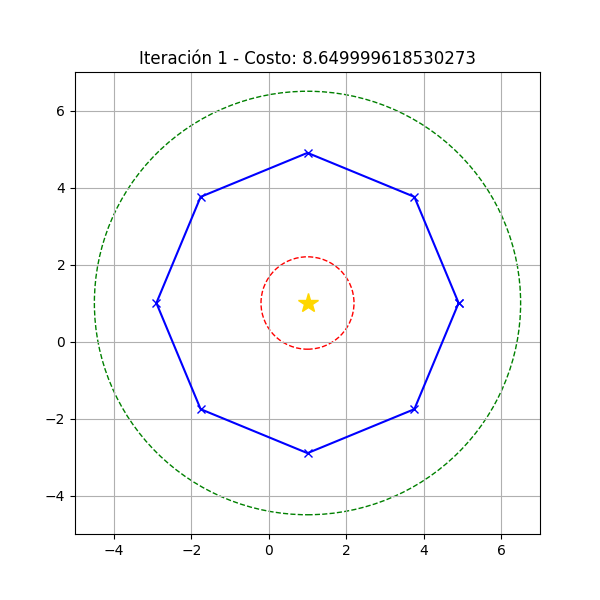
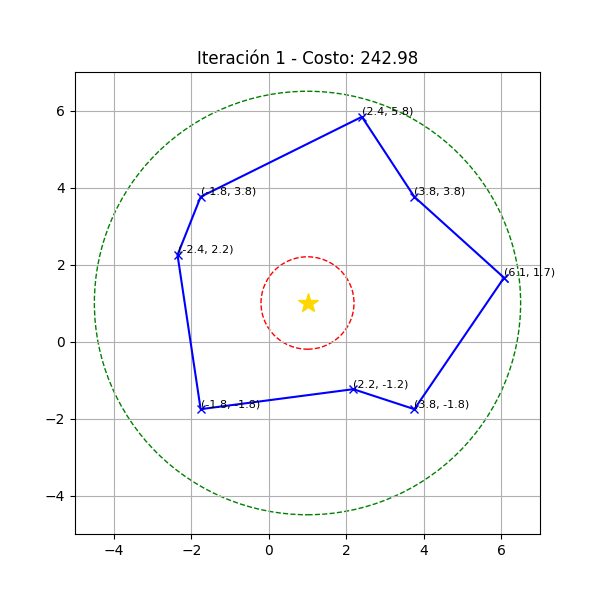
Se arregla problemas con trayectoria y optimizacion

diff --git a/Verano_2026/controllers/Controlador_principal/Optimizador.py b/Verano_2026/controllers/Controlador_principal/Optimizador.py
@@ -44,15 +44,16 @@ def fun_costo(p):
     contador+=1
     print(f"ITERACION {contador}")
     # 1. Reconstruir a 4D a partir de 3D (x, y, z)
-    wp3d = np.reshape(p, (-1, 3)).tolist()
+    wp3d = np.reshape(p, (-1, 4)).tolist()
     wp = []
     for w in wp3d:
         x = w[0]
         y = w[1]
         z = w[2]
-        dx = 1.0 - x
-        dy = 1.0 - y
-        yaw = mt.atan2(dy, dx)
+        yaw=w[3]
+        # dx = 1.0 - x
+        # dy = 1.0 - y
+        # yaw = mt.atan2(dy, dx)
         wp.append([x, y, z, yaw])
     
     # 2. Escribir 'mision.json'
@@ -78,18 +79,27 @@ def fun_costo(p):
 
     # 5. Retornar el costo
     puntaje=detector.imagenes_capturadas()
-    peso=2.0
+    peso=3.2
     ptj=peso*puntaje
     
     # Calcular distancia teórica de la ruta (sin ruido de simulación)
     distancia_teorica = 0.0
+    segmentos=[]
     for i in range(len(wp)-1):
         distancia_teorica += mt.sqrt((wp[i+1][0]-wp[i][0])**2 + (wp[i+1][1]-wp[i][1])**2)
+        segmentos.append(mt.sqrt((wp[i+1][0]-wp[i][0])**2 + (wp[i+1][1]-wp[i][1])**2))
     # Sumar el tramo final al inicio para cerrar el circuito
     distancia_teorica += mt.sqrt((wp[0][0]-wp[-1][0])**2 + (wp[0][1]-wp[-1][1])**2)
-    
+    segmentos.append(mt.sqrt((wp[0][0]-wp[-1][0])**2 + (wp[0][1]-wp[-1][1])**2))
+    medida=distancia_teorica/len(segmentos)
+    penalizacion_distancia=0.0
+    for seg in segmentos:
+        d1=abs(seg-medida)
+        d2=d1*30
+        penalizacion_distancia+=d2
+
     # El costo ahora se basa en la distancia teórica (suave) en lugar del tiempo simulado (ruidoso)
-    costo = distancia_teorica - ptj
+    costo = distancia_teorica - ptj+penalizacion_distancia
     co=0.0
     for w in wp:
         w1=w[0]
@@ -103,7 +113,7 @@ def fun_costo(p):
     costos.append(costo)
 
     #tiempo de vuelo, puntaje 
-    print(f"Tiempo de vuelo: {tiempo_total} , Distancia teorica: {distancia_teorica} , puntaje: {puntaje}, costo: {costo} , |costo penalizacion: {co} , |puntos obtenidos: {ptj}|")
+    print(f"Tiempo de vuelo: {tiempo_total} , Distancia teorica: {distancia_teorica} , puntaje: {puntaje}, costo: {costo} , |costo penalizacion: {penalizacion_distancia} , |puntos obtenidos: {ptj}|")
   
 
     x_vals = [w[0] for w in wp]
@@ -113,6 +123,9 @@ def fun_costo(p):
 
     plt.figure(figsize=(6,6))
     plt.plot(x_vals, y_vals, marker='x', color='blue', label='Ruta')
+    for x, y in zip(x_vals[:-1], y_vals[:-1]):
+        plt.text(x, y, f"({x:.1f}, {y:.1f})", fontsize=8, ha='left', va='bottom', color='black')
+
     plt.plot(1.0, 1.0, marker='*', color='gold', markersize=15, label='Objeto') 
     ax = plt.gca()
     ax.add_patch(plt.Circle((1.0, 1.0), 1.2, color='red', fill=False, linestyle='--'))
@@ -121,7 +134,7 @@ def fun_costo(p):
     plt.xlim(-5, 7)
     plt.ylim(-5, 7)
     plt.grid(True)
-    plt.title(f"Iteración {contador} - Costo: {round(costo, 2)}")
+    plt.title(f"Iteración {contador} - Costo: {costo:.2f}")
     plt.savefig(os.path.join(ruta_historia, f"iteracion_{contador}.png"))
     plt.close()
 
@@ -138,33 +151,45 @@ if __name__ == "__main__":
     num_puntos=tray_obj.puntos_necesarios()
     puntos=tray_obj.puntos_trayectoria_circular(num_puntos)
     
-    puntos3d=[]
+    puntos4d=[]
+    nums_rand=[]
+    n=1.7
+    
    
     for i in range(len(puntos)):
         x=puntos[i][0]
         y=puntos[i][1]
         z=puntos[i][2]
-        puntos3d.append([x, y, z])
+        
+        nums_rand=np.random.uniform(0.0,n,size=2)
+       
+        if i%2==0:
+            x+=nums_rand[0]
+            y+=nums_rand[1]
+        dx=1.0-x
+        dy=1.0-y
+        yaw=mt.atan2(dy,dx)
+        puntos4d.append([x, y, z,yaw])
 
-    puntos3d=np.array(puntos3d)
+    puntos3d=np.array(puntos4d)
     wp_in=np.ravel(puntos3d)
     
 
     N = len(wp_in)
     simplex_inicial = np.zeros((N + 1, N))
     simplex_inicial[0] = wp_in
-    radio_busqueda = 1.5 # 1.5 metros de salto inicial para escapar del ruido de YOLO
+    radio_busqueda = 0.5 
     for i in range(N):
         simplex_inicial[i+1] = np.copy(wp_in)
-        simplex_inicial[i+1][i] += radio_busqueda
-    # -----------------------------------------------
-    
-    print(f" optimizando con {len(puntos3d)} puntos de control (en 3D) ")
-    # Usamos Nelder-Mead con un simplex inicial grande. 
-    # fatol y xatol aumentados para que no pierda tiempo en precisiones milimétricas que YOLO no puede percibir.
-    resultado=minimize(fun_costo, wp_in, method="Nelder-Mead", options={'maxiter':1000, 'disp':True, 'initial_simplex': simplex_inicial, 'adaptive': True, 'xatol': 0.1, 'fatol': 0.1})
+        if i %4 ==3:
+            simplex_inicial[i+1][i] += 0.0
+        else:
+            simplex_inicial[i+1][i] += 1.5
+
+    print(f" optimizando... ")
+    resultado=minimize(fun_costo, wp_in, method="Nelder-Mead", options={'maxiter':150, 'disp':True, 'initial_simplex': simplex_inicial, 'adaptive': True, 'xatol': 0.5, 'fatol': 1.0})
     print("\n")
-    print(f"RESULTADO:{np.reshape(resultado.x,(-1,3))}")
+    print(f"RESULTADO:{np.reshape(resultado.x,(-1,4))}")
     
 
     plt.plot(range(1, len(costos) + 1), costos, marker='o')
@@ -175,5 +200,168 @@ if __name__ == "__main__":
     plt.savefig(ruta_convergencia)
     plt.show()
 
+    ty_opt=np.reshape(resultado.x,(-1,4)).tolist()
+
+    x_opt = [w[0] for w in ty_opt]
+    y_opt = [w[1] for w in ty_opt]
+    x_opt.append(x_opt[0])
+    y_opt.append(y_opt[0])
+
+    plt.figure(figsize=(8,8))
+    plt.plot(x_opt, y_opt, marker='o', color='magenta', linewidth=1, label='Ruta Óptima')
+    for x, y in zip(x_opt[:-1], y_opt[:-1]):
+        plt.text(x, y, f"({x:.1f}, {y:.1f})", fontsize=6, ha='left', va='bottom', color='black')
+    plt.plot(1.0, 1.0, marker='*', color='gold', markersize=15, label='Objeto') 
+    ax = plt.gca()
+    ax.add_patch(plt.Circle((1.0, 1.0), 1.2, color='red', fill=False, linestyle='--'))
+    ax.add_patch(plt.Circle((1.0, 1.0), 5.5, color='green', fill=False, linestyle='--'))
+
+    plt.xlim(-5, 7)
+    plt.ylim(-5, 7)
+    plt.grid(True)
+    plt.legend()
+    plt.title("Trayectoria Final Optimizada")
+    ruta_trayectoria_final = os.path.join(ruta_base, "trayectoria_final.png")
+    plt.savefig(ruta_trayectoria_final)
+    plt.show()
+    diccionario={
+        "waypoints":ty_opt
+    }
+    with open(ruta_mision, "w") as f:
+        json.dump(diccionario, f)
+    
+    # 3. Llamar a Webots (subprocess)
+    video_output= os.path.join(ruta_historia, f"video_final_{contador}.mp4")
+    comando=[webots_path,  ruta_mundo]
+    print("SIMULACION FINAL")
+    subprocess.run(comando)
+
+# def fun_costo(p):
+#     global contador 
+#     contador+=1
+#     print(f"ITERACION {contador}")
+    
+#     # NUEVO: Reconstruir a partir de 2D (x, y). La Z la dejamos fija en 0.85 (tu altura_vuelo)
+#     wp2d = np.reshape(p, (-1, 2)).tolist()
+#     wp = []
+#     z_fija = 0.85 
+#     for w in wp2d:
+#         x = w[0]
+#         y = w[1]
+#         dx = 1.0 - x
+#         dy = 1.0 - y
+#         yaw = mt.atan2(dy, dx)
+#         wp.append([x, y, z_fija, yaw])
+    
+#     # 2. Escribir 'mision.json'
+#     diccionario={
+#         "waypoints":wp
+#     }
+#     with open(ruta_mision, "w") as f:
+#         json.dump(diccionario, f)
+    
+#     # 3. Llamar a Webots (subprocess)
+#     comando=[webots_path, "--mode=fast","--no-rendering","--minimize", "--batch", ruta_mundo]
+#     subprocess.run(comando)
+    
+#     # 4. Leer 'reporte_vuelo.json'
+#     with open(ruta_reporte, "r") as f:
+#         diccionario2=json.load(f)
+#         tiempo_total=diccionario2["tiempo_total"]
+
+#     # 5. Retornar el costo
+#     puntaje=detector.imagenes_capturadas()
+#     peso=2.0
+#     ptj=peso*puntaje
+    
+#     # Calcular distancia teórica
+#     distancia_teorica = 0.0
+#     for i in range(len(wp)-1):
+#         distancia_teorica += mt.sqrt((wp[i+1][0]-wp[i][0])**2 + (wp[i+1][1]-wp[i][1])**2)
+#     distancia_teorica += mt.sqrt((wp[0][0]-wp[-1][0])**2 + (wp[0][1]-wp[-1][1])**2)
+    
+#     costo = distancia_teorica - ptj
+#     co=0.0
+#     for w in wp:
+#         w1=w[0]
+#         w2=w[1]
+#         d=mt.sqrt((w1-1.0)**2+(w2-1.0)**2)
+#         if d<1.2:
+#             co += 1000.0 * (1.2 - d)**2
+#         elif d>5.5:
+#             co += 1000.0 * (d - 5.5)**2
+#     costo=costo+co
+#     costos.append(costo)
+
+#     print(f"Distancia teorica: {round(distancia_teorica,2)} | puntaje YOLO: {round(puntaje,2)} | COSTO FINAL: {round(costo,2)}")
+
+#     x_vals = [w[0] for w in wp]
+#     y_vals = [w[1] for w in wp]
+#     x_vals.append(x_vals[0])
+#     y_vals.append(y_vals[0])
+
+#     plt.figure(figsize=(6,6))
+#     plt.plot(x_vals, y_vals, marker='x', color='blue', label='Ruta')
+#     plt.plot(1.0, 1.0, marker='*', color='gold', markersize=15, label='Objeto') 
+#     ax = plt.gca()
+#     ax.add_patch(plt.Circle((1.0, 1.0), 1.2, color='red', fill=False, linestyle='--'))
+#     ax.add_patch(plt.Circle((1.0, 1.0), 5.5, color='green', fill=False, linestyle='--'))
+
+#     plt.xlim(-5, 7)
+#     plt.ylim(-5, 7)
+#     plt.grid(True)
+#     plt.title(f"Iteración {contador} - Costo: {round(costo, 2)}")
+#     plt.savefig(os.path.join(ruta_historia, f"iteracion_{contador}.png"))
+#     plt.close()
+
+#     return costo
+
+# if __name__ == "__main__":
+#     if os.path.exists(ruta_historia) is False:
+#         os.makedirs(ruta_historia)
+#     else:
+#         shutil.rmtree(ruta_historia)
+#         os.makedirs(ruta_historia)
+        
+#     num_puntos=tray_obj.puntos_necesarios()
+#     puntos=tray_obj.puntos_trayectoria_circular(num_puntos)
+    
+#     # NUEVO: Guardar solo X y Y (16 dimensiones en total)
+#     puntos2d=[]
+#     for i in range(len(puntos)):
+#         x=puntos[i][0]
+#         y=puntos[i][1]
+        
+#         if i%2==0:
+#             x+=1.5
+
+#         puntos2d.append([x, y])
+
+#     puntos2d=np.array(puntos2d)
+#     wp_in=np.ravel(puntos2d)
+    
+#     N = len(wp_in)
+#     simplex_inicial = np.zeros((N + 1, N))
+#     simplex_inicial[0] = wp_in
+#     radio_busqueda = 0.5 
+#     for i in range(N):
+#         simplex_inicial[i+1] = np.copy(wp_in)
+#         simplex_inicial[i+1][i] += radio_busqueda
+    
+#     print(f" Optimizando con {int(len(wp_in)/2)} puntos de control (Solo en 2D = {len(wp_in)} variables) ")
+    
+#     # maxiter 150 es un buen límite razonable
+#     resultado=minimize(fun_costo, wp_in, method="Nelder-Mead", options={'maxiter':100, 'disp':True, 'initial_simplex': simplex_inicial, 'adaptive': True, 'xatol': 0.1, 'fatol': 0.1})
+    
+#     print("\nRESULTADO OPTIMIZACIÓN:")
+#     print(np.reshape(resultado.x,(-1,2)))
+    
+#     plt.plot(range(1, len(costos) + 1), costos, marker='o')
+#     plt.xlabel("Iteraciones")
+#     plt.ylabel("Costo (Error)")
+#     plt.title("Convergencia del Algoritmo de Optimización")
+#     plt.grid(True)
+#     plt.savefig(ruta_convergencia)
+#     print("¡Terminado! Revisa la gráfica de convergencia.")
 
     

diff --git a/Verano_2026/controllers/Controlador_principal/yolo_detector.py b/Verano_2026/controllers/Controlador_principal/yolo_detector.py
@@ -101,28 +101,53 @@ class YoloDetector:
                 p_medio2=punto_medio_img-35
                 puntaje_act=0
 
-                if y1>borde_vertical and y2<img_height-borde_vertical:
-                    foto_buena=True
-                    altura=img_height
-                    altura_obj=y2-y1
-                    porc=(altura_obj/altura)*100
-                    
-                    # Evaluacion de altura de objeto
-                    error_altura = abs(porc - 70.0)
-                    # Tolerancia más amplia
-                    puntaje_altura = max(0.0, 5.0 - (error_altura / 10.0))
-                    puntaje_act += puntaje_altura
-                     
-                    # Evaluacion de centrado horizontal 
-                    error_centrado = abs(punto_medio_obj - punto_medio_img)
-                    puntaje_centrado = max(0.0, 5.0 - (error_centrado / (img_width / 15.0)))
-                    puntaje_act += puntaje_centrado
-                    
-                    if puntaje_act>puntaje:
-                        puntaje=puntaje_act
+
+                altura=img_height
+                altura_obj=y2-y1
+                porc=(altura_obj/altura)*100
+                margen=8
+                foto_mala=False
+
+                if y1 <=margen or y2>=altura-margen:
+                    foto_mala=True
                 
-                else:
-                    foto_buena=False
+                # Evaluacion de altura de objeto
+                error_altura = abs(porc - 60.0)
+                # Tolerancia más amplia
+                puntaje_altura = max(0.0, 5.0 - (error_altura / 18.0))
+                puntaje_act += puntaje_altura
+                    
+                # Evaluacion de centrado horizontal 
+                error_centrado = abs(punto_medio_obj - punto_medio_img)
+                puntaje_centrado = max(0.0, 5.0 - (error_centrado / (img_width / 6.0)))
+                puntaje_act =puntaje_altura+puntaje_centrado
+                if foto_mala:
+                    puntaje_act=puntaje_act*0.1
+                if puntaje_act>puntaje:
+                    puntaje=puntaje_act
+
+                # if y1>borde_vertical and y2<img_height-borde_vertical:
+                #     foto_buena=True
+                #     altura=img_height
+                #     altura_obj=y2-y1
+                #     porc=(altura_obj/altura)*100
+                    
+                #     # Evaluacion de altura de objeto
+                #     error_altura = abs(porc - 70.0)
+                #     # Tolerancia más amplia
+                #     puntaje_altura = max(0.0, 5.0 - (error_altura / 10.0))
+                #     puntaje_act += puntaje_altura
+                     
+                #     # Evaluacion de centrado horizontal 
+                #     error_centrado = abs(punto_medio_obj - punto_medio_img)
+                #     puntaje_centrado = max(0.0, 5.0 - (error_centrado / (img_width / 15.0)))
+                #     puntaje_act += puntaje_centrado
+                    
+                #     if puntaje_act>puntaje:
+                #         puntaje=puntaje_act
+                
+                # else:
+                #     foto_buena=False
 
         return puntaje
 
